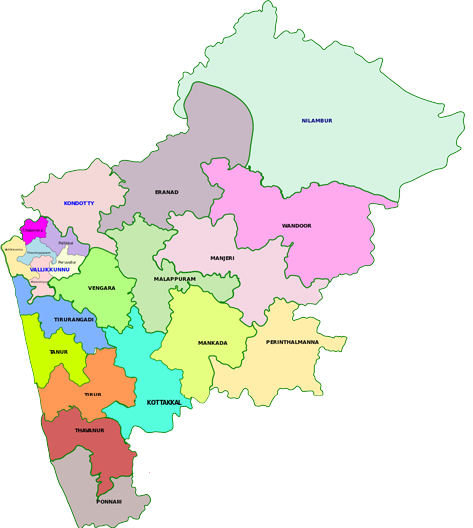
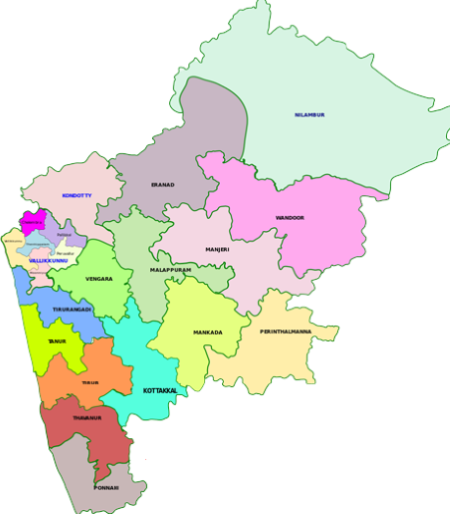
issues of images overflow fixed

diff --git a/Kollam.html b/Kollam.html
@@ -92,8 +92,13 @@ class="p-5 text-center bg-image" style="background-image: url('Images/coverimage
   <div class="aboutDistrict">
 <h1>Kollam</h1>
     <div class="row">
-      <div class="col-sm imgsize">
-      <img src="Images/kollam/Kollammap.png" alt="Kollam">
+      <div class="col-sm imgsize img-fluid">
+      <!-- <img src="Images/kollam/Kollammap1.png" alt="Kollam"> -->
+      <picture>
+        <source media="(max-width: 799px)" srcset="Images/kollam/Kollammap.png">
+        <source media="(min-width: 800px)" srcset="Images/kollam/Kollammap1.png">
+        <img src="Images/kollam/Kollammap1.png" alt="Chris standing up holding his daughter Elva">
+      </picture>
     </div>
     <div class="col-sm">   
       <p>Kollam (erstwhile Quilon) is a southern district of Kerala, located 70 km north of the state’s capital Thiruvananthapuram. It is flanked by the Arabian sea on the west, Tamil Nadu on the east, Alapuzha and Pathanamthitta districts on the north and Thiruvananthapuram district on the south. Housing a population of over 2.6 million, Kollam is one of the more densely peopled districts of India. The head quarters of the district administration is centred at Kollam City, the district’s capital. Administratively, the district is composed of two revenue divisions viz. Kollam and Punalur with three taluks each under them.

diff --git a/Pathanamthitta.html b/Pathanamthitta.html
@@ -93,7 +93,13 @@ class="p-5 text-center bg-image" style="background-image: url('Images/coverimage
 
     <div class="row">
       <div class="col-sm imgsize">
-      <img src="Images/Pathanamthitta/Pathanamthittamap.png" alt="Pathanamthitta">
+      <!-- <img src="Images/Pathanamthitta/Pathanamthittamap.png" alt="Pathanamthitta"> -->
+      <picture>
+        <source media="(max-width: 799px)" srcset="Images/Pathanamthitta/Pathanamthittamap1.png">
+        <source media="(min-width: 800px)" srcset="Images/Pathanamthitta/Pathanamthittamap.png">
+        <img src="Images/Pathanamthitta/Pathanamthittamap.png" alt="Chris standing up holding his daughter Elva">
+      </picture>
+      
     </div>
     <div class="col-sm">   
       <p>

diff --git a/Kottayam.html b/Kottayam.html
@@ -92,7 +92,12 @@ class="p-5 text-center bg-image" style="background-image: url('Images/coverimage
   <div class="aboutDistrict">
     <div class="row">
       <div class="col-sm imgsize">
-      <img src="Images/kottayam/kottayammap.png" alt="Kottayam">
+      <!-- <img src="Images/kottayam/kottayammap.png" alt="Kottayam"> -->
+      <picture>
+        <source media="(max-width: 799px)" srcset="Images/kottayam/kottayammap_small.png">
+        <source media="(min-width: 800px)" srcset="Images/kottayam/kottayammap.png">
+        <img src="Images/kottayam/kottayammap.png" alt="Chris standing up holding his daughter Elva">
+      </picture>
     </div>
     <div class="col-sm">   
       <p>

diff --git a/Palakkad.html b/Palakkad.html
@@ -93,7 +93,12 @@ class="p-5 text-center bg-image" style="background-image: url('Images/coverimage
 
     <div class="row">
       <div class="col-sm imgsize">
-      <img src="Images/Palakkad/Palakkadmap.png" alt="Palakkad">
+      <!-- <img src="Images/Palakkad/Palakkadmap.png" alt="Palakkad"> -->
+        <picture>
+          <source media="(max-width: 799px)" srcset="Images/Palakkad/Palakkadmap1.png">
+          <source media="(min-width: 800px)" srcset="Images/Palakkad/Palakkadmap.png">
+          <img src="Images/Palakkad/Palakkadmap.png" alt="Chris standing up holding his daughter Elva">
+        </picture>
     </div>
     <div class="col-sm">   
       <p>

diff --git a/Thrissur.html b/Thrissur.html
@@ -93,7 +93,12 @@ class="p-5 text-center bg-image" style="background-image: url('Images/coverimage
 
     <div class="row">
       <div class="col-sm imgsize">
-      <img src="Images/Thrissur/thrissurmap.png" alt="Thrissur">
+      <!-- <img src="Images/Thrissur/thrissurmap.png" alt="Thrissur"> -->
+      <picture>
+        <source media="(max-width: 799px)" srcset="Images/Thrissur/thrissurmap1.png">
+        <source media="(min-width: 800px)" srcset="Images/Thrissur/thrissurmap.png">
+        <img src="Images/Thrissur/thrissurmap.png" alt="Chris standing up holding his daughter Elva">
+      </picture>
     </div>
     <div class="col-sm">   
       <p>

diff --git a/Kannur.html b/Kannur.html
@@ -93,7 +93,12 @@ class="p-5 text-center bg-image" style="background-image: url('Images/coverimage
 
     <div class="row">
       <div class="col-sm imgsize">
-      <img src="Images/kannur/Kannurmap.png" alt="Kannur">
+      <!-- <img src="Images/kannur/Kannurmap.png" alt="Kannur"> -->
+      <picture>
+        <source media="(max-width: 799px)" srcset="Images/kannur/Kannurmap1.png">
+        <source media="(min-width: 800px)" srcset="Images/kannur/Kannurmap.png">
+        <img src="Images/kannur/Kannurmap.png" alt="Chris standing up holding his daughter Elva">
+      </picture>
     </div>
     <div class="col-sm">   
       <p>

diff --git a/index.html b/index.html
@@ -121,7 +121,12 @@
     <h2>Welcome To God's Own Country</h2>
     <div class="row">
       <div class="col-sm imgsize">
-      <img src="Images/kathakali.png" alt="Kathakali">
+      <!-- <img src="Images/kathakali.png" alt="Kathakali"> -->
+      <picture>
+        <source media="(max-width: 799px)" srcset="Images/kathakali.png">
+        <source media="(min-width: 800px)" srcset="Images/kathakali1.png">
+        <img src="Images/kathakali1.png" alt="Chris standing up holding his daughter Elva">
+      </picture>
     </div>
     <div class="col-sm">
     <p> 	

diff --git a/CSS/style.css b/CSS/style.css
@@ -36,14 +36,14 @@
   height: 70vh;
 }
 
-.img-fluid {
+/* .img-fluid {
     max-width: 100%;
     height: auto;
 }
 .carousel-item .img-fluid {
     width:100%;
     height:100%;
-  } 
+  }  */
  .nav-link{
      color: white!important;
  }
@@ -128,7 +128,8 @@ padding: 1%;
 }
 
 .imgsize{
-    overflow: hidden;
-    width: 100%;
-    height: 100%;
+     max-width: 100%;
+    height: auto;
+    object-fit: contain!important;
 }
+

diff --git a/Kasaragod.html b/Kasaragod.html
@@ -93,7 +93,7 @@ class="p-5 text-center bg-image" style="background-image: url('Images/coverimage
     <div class="aboutDistrict">
 
       <div class="row">
-        <div class="col-sm">
+        <div class="col-sm imgsize">
         <img src="Images/Kasaragod/Kasaragodmap.png" alt="Kasaragod">
       </div>
       <div class="col-sm imgsize">   
